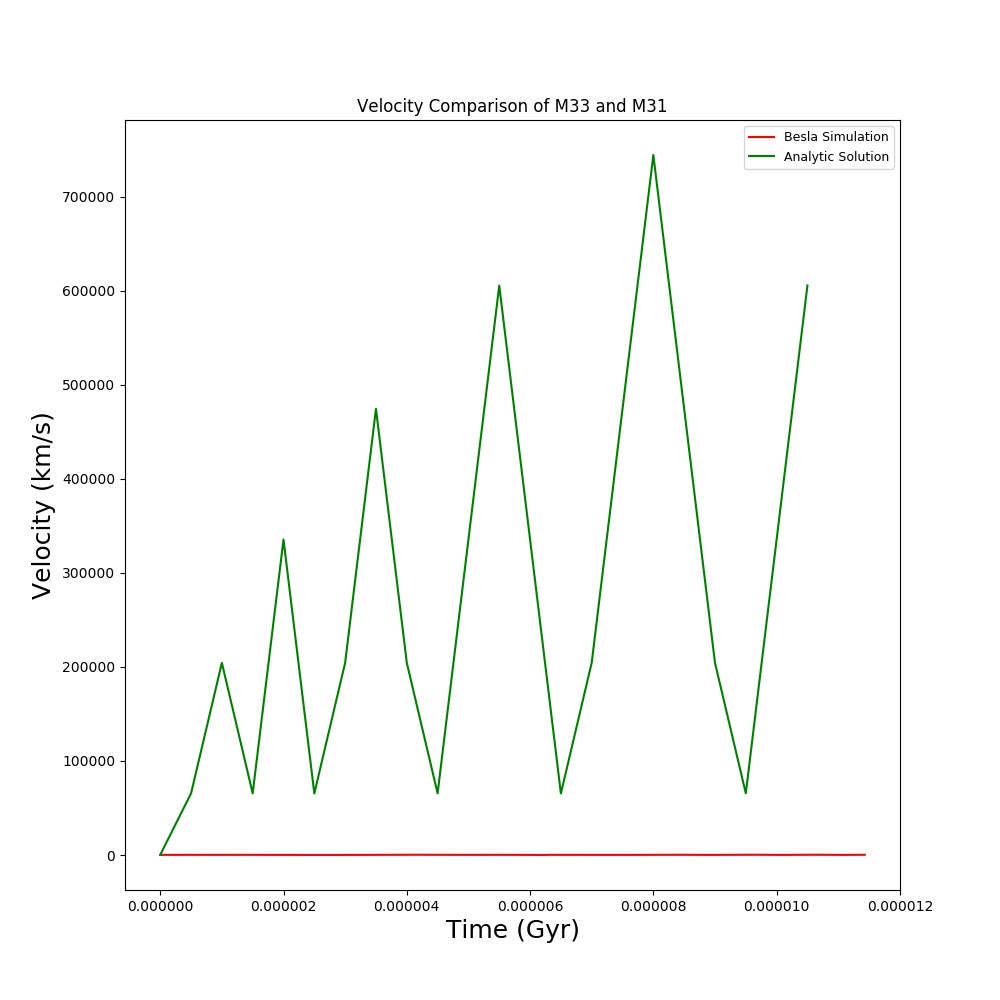
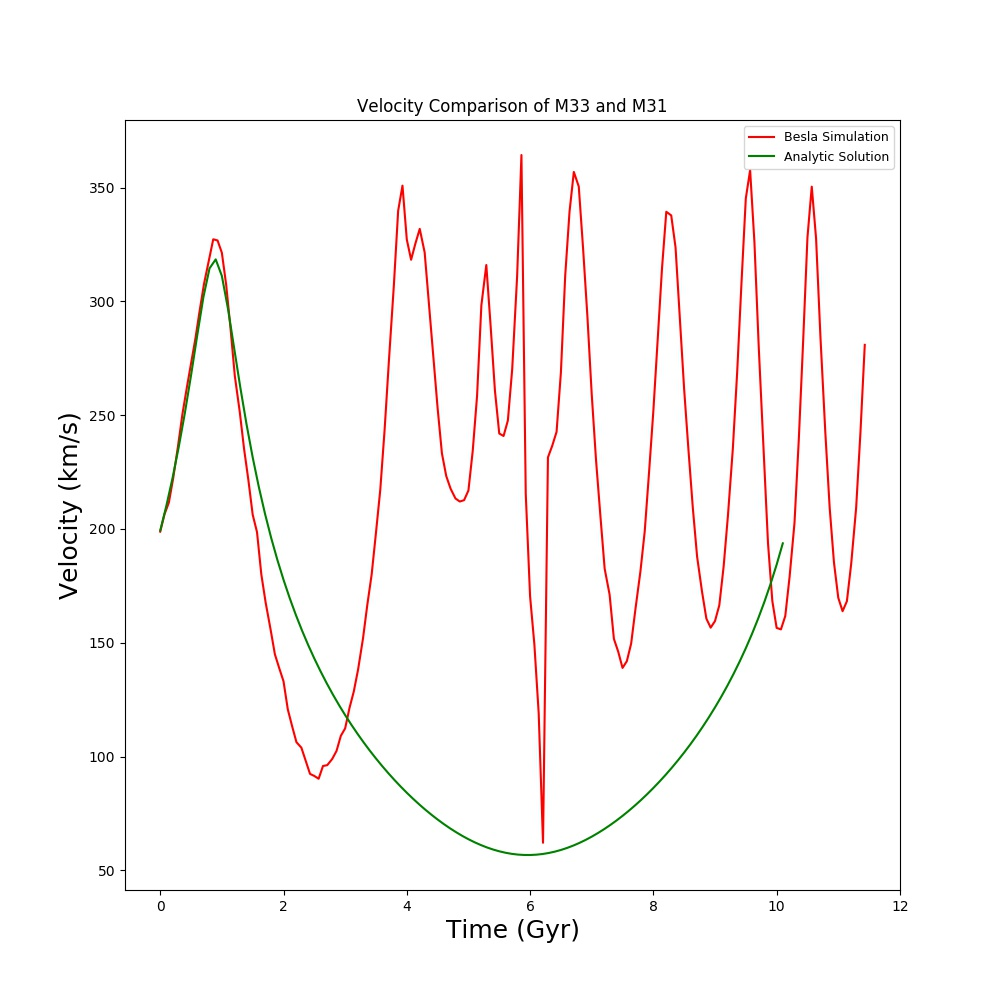
Final updated and correct scripts and plots

diff --git a/Homework7/M33AnalyticOrbit.py b/Homework7/M33AnalyticOrbit.py
@@ -88,7 +88,7 @@ class M33AnalyticOrbit:
             a_k2 = (-(self.G*M)/((R**2+B**2)**1.5))*y
         #  print a_k2
         if n=='z':
-            a_k2 = (-(self.G*M*B)/((R**2+B**2)**1.5)*np.sqrt(z**2+Zd**2))*z
+            a_k2 = (-(self.G*M*B)/((R**2+B**2)**1.5*np.sqrt(z**2+Zd**2)))*z
             print a_k2
         return a_k2
 ###M31Acceleration
@@ -206,9 +206,9 @@ class M33AnalyticOrbit:
         return i
 
 AnalyticalObject = M33AnalyticOrbit('M33Analytical_orbit.txt')
-M33Analytical_orbit = AnalyticalObject.OrbitIntegrator(0,0.5,10)
+M33Analytical_orbit = AnalyticalObject.OrbitIntegrator(0,0.1,10)
 
 
-print "Question 1: I cannot seem to get the simulation prediction to plot in addition to the analytical now. I would expect the separation to sharply increase around 6 Gyr and continue for the analytical solution. I would also expect M33's velocity to sharply increase around 2 Gyr and 6 Gyr as the galaxy make the passbys."
-print "Question 2: Analytic prediction assumes M33 is a point mass, which is not true; it is a large collection of particles that are also pulling gravitationally on each other, so taking this into account would be extremely difficult, but more accurate."
+print "Question 1: The Analytic prediction is much more smooth than the simulation. Both dip sharply at around 1 Gyr for separation, and increase sharply in velocity, but the analytic continues to increase smoothly in distance until 6.2 GYr, when the merger occurs, then decrease smoothly, while in velocity, it decreases smoothly, then increases after the merger. The simulation predictions are much more sporadic."
+print "Question 2: Analytic prediction assumes M33 is a point mass, which is not true; it is a large collection of particles that are also pulling gravitationally on each other, so taking this into account would be extremely difficult, but more accurate. The simulation is taking into account the changing mass."
 print "Question 3: Milky Way's gravitational pull is relatively unsignificant until the galaxies start to become very near each other and make that first passby. In that case, it's not just M31's mass pulling on M33, but the combined mass of M31 and Milky Way, creating an even stronger attraction."

diff --git a/Homework7/M33_plotting.py b/Homework7/M33_plotting.py
@@ -17,7 +17,7 @@ M33Analytic_separation = np.sqrt((M33Analytic['x'])**2+(M33Analytic['y'])**2+(M3
 M33Simulation_velocity = np.sqrt((M31Orbit['vx']-M33Orbit['vx'])**2+(M31Orbit['vy']-M33Orbit['vy'])**2+(M31Orbit['vz']-M33Orbit['vz'])**2)
 M33Analytic_velocity = np.sqrt((M33Analytic['vx'])**2+(M33Analytic['vy'])**2+(M33Analytic['vz'])**2)
 
-time = M33Orbit['t']/1e6
+# time = M33Orbit['t']/1e6
 
 #First plot M33-M31 position comparison
 
@@ -25,8 +25,8 @@ time = M33Orbit['t']/1e6
 figure1 = plt.figure(1,figsize=(10,10))
 ax = plt.subplot(111)
 #plot the simulation vs. analytic predictions
-plt.plot(M33Orbit['t']/1e6, M33Simulation_separation, c='b', label='Besla Simulation')
-plt.plot(M33Analytic['t']/1e6, M33Analytic_separation, c='y', label='Analytic Solution')
+plt.plot(M33Orbit['t'], M33Simulation_separation, c='b', label='Besla Simulation')
+plt.plot(M33Analytic['t'], M33Analytic_separation, c='y', label='Analytic Solution')
 
 #add plot title
 plt.title('Separation of M33 and M31')
@@ -49,8 +49,8 @@ plt.close()
 figure2 = plt.figure(1,figsize=(10,10))
 ax = plt.subplot(111)
 #plot the simulation vs. analytic predictions
-plt.plot(M31Orbit['t']/1e6, M33Simulation_velocity, c='r', label='Besla Simulation')
-plt.plot(M33Analytic['t']/1e6, M33Analytic_velocity, c='g', label='Analytic Solution')
+plt.plot(M31Orbit['t'], M33Simulation_velocity, c='r', label='Besla Simulation')
+plt.plot(M33Analytic['t'], M33Analytic_velocity, c='g', label='Analytic Solution')
 
 #add plot title
 plt.title('Velocity Comparison of M33 and M31')
